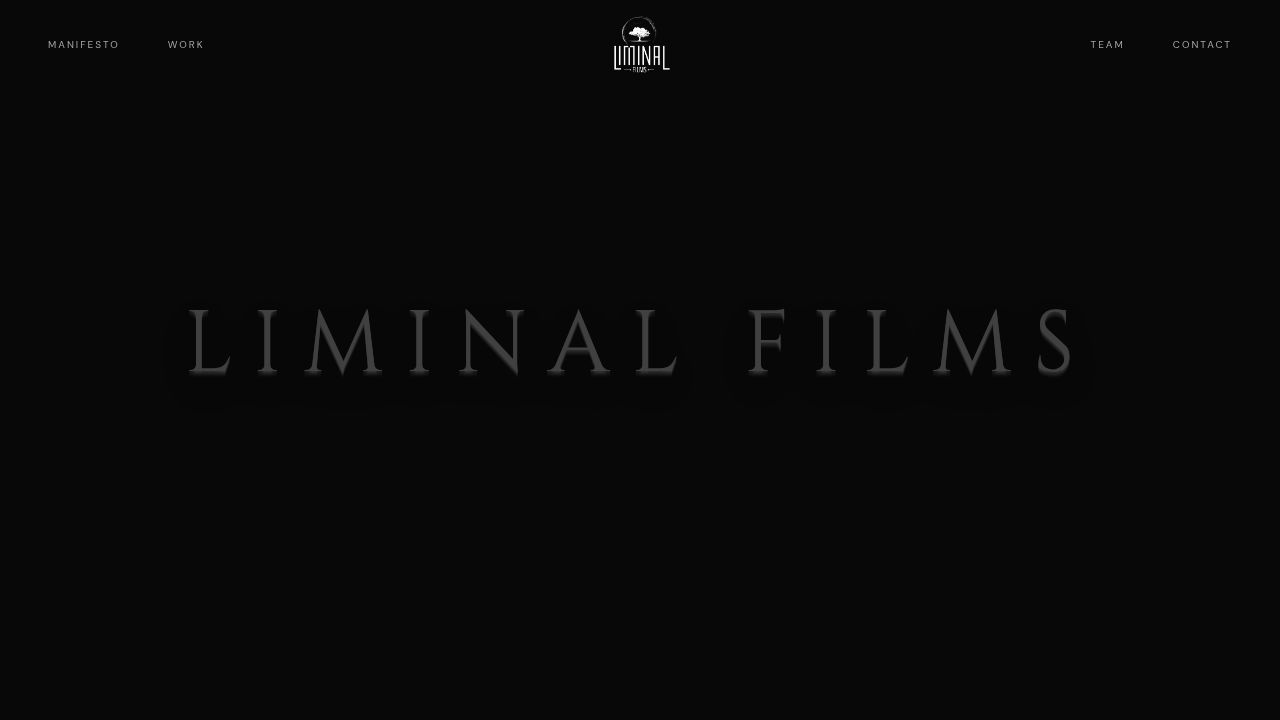
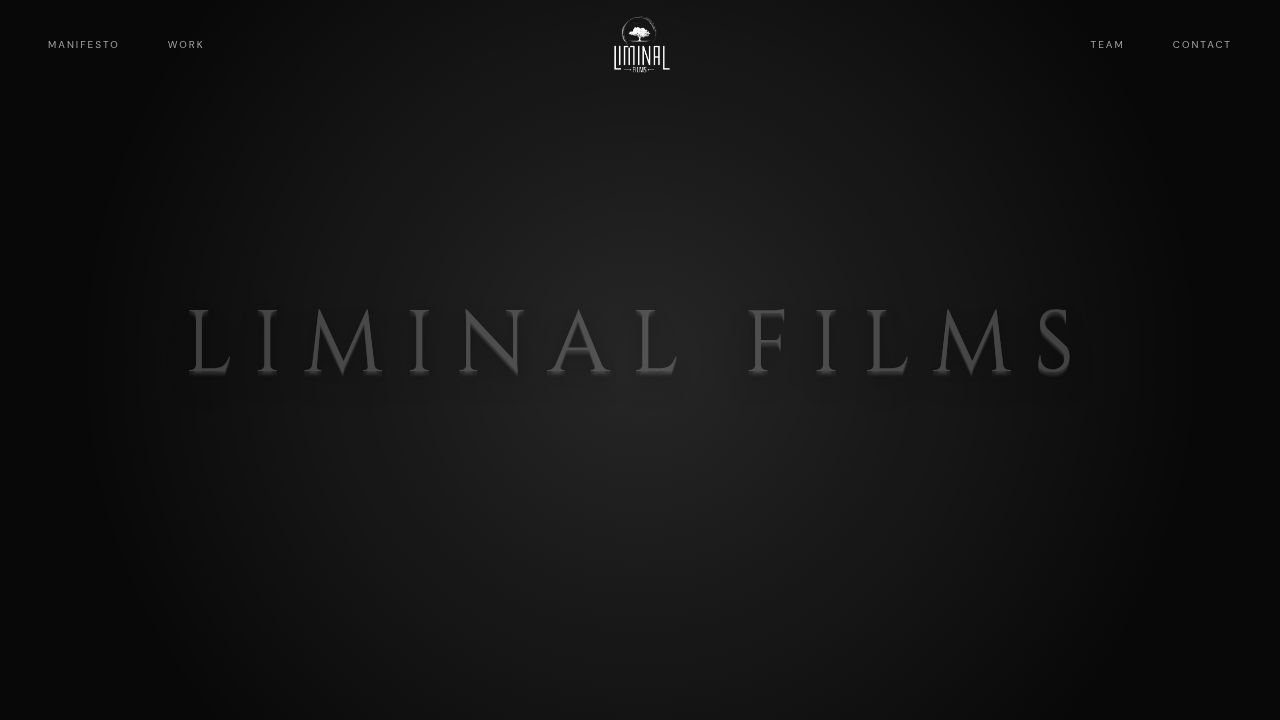
Update team member names with a more elegant font and slightly larger size
Modify the Team component to use a serif font (Cormorant Garamond) and increase the font size for team member names, enhancing their visual prominence.

Replit-Commit-Author: Agent
Replit-Commit-Session-Id: ff2ce0f0-7cad-4375-b4a2-53d2b1b7dc89
Replit-Commit-Checkpoint-Type: full_checkpoint
Replit-Commit-Event-Id: f7708647-dcc0-4590-ae38-7773f66a5041
Replit-Commit-Screenshot-Url: https://storage.googleapis.com/screenshot-production-us-central1/48974fb6-187f-4aca-91dc-7ac49f2044b8/ff2ce0f0-7cad-4375-b4a2-53d2b1b7dc89/vjdYGNM
Replit-Helium-Checkpoint-Created: true

Changed region(s): [[0.4062, 0.3361, 0.5938, 0.6722]]

diff --git a/client/src/components/Team.tsx b/client/src/components/Team.tsx
@@ -51,7 +51,7 @@ export function Team() {
                     }`}
                   />
                 </div>
-                <h3 className="text-base md:text-lg font-sans tracking-wide text-foreground mb-2 group-hover:text-primary transition-colors">
+                <h3 className="text-lg md:text-xl font-serif tracking-wide text-foreground mb-2 group-hover:text-primary transition-colors">
                   {member.name}
                 </h3>
                 <div className="text-[10px] md:text-xs uppercase tracking-widest text-muted-foreground w-full">